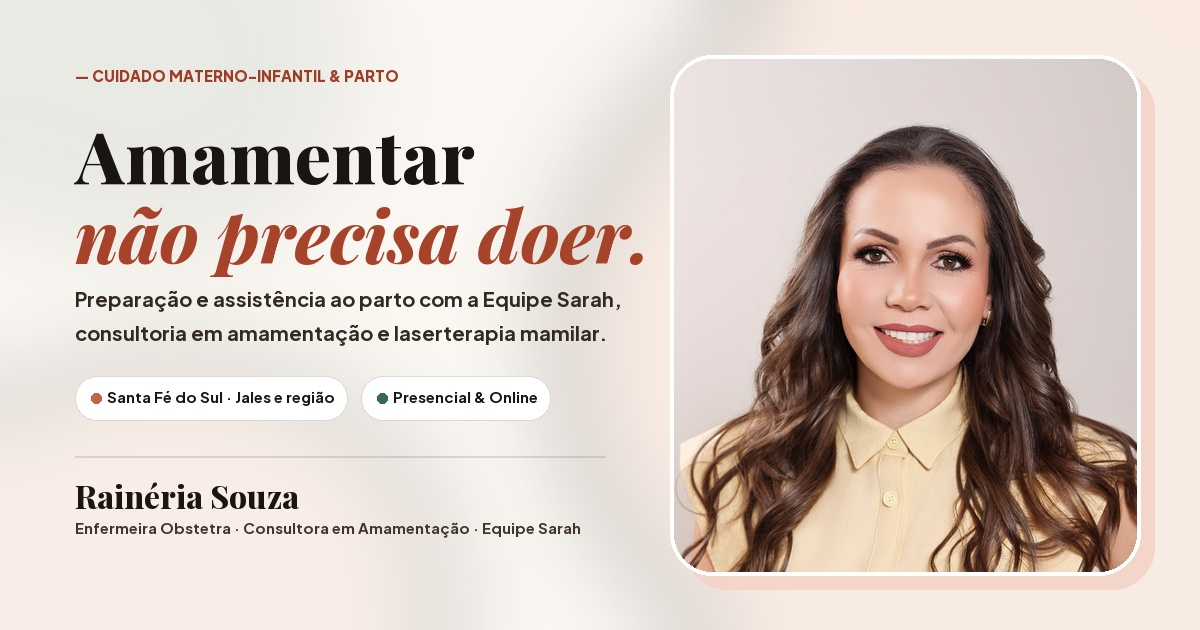
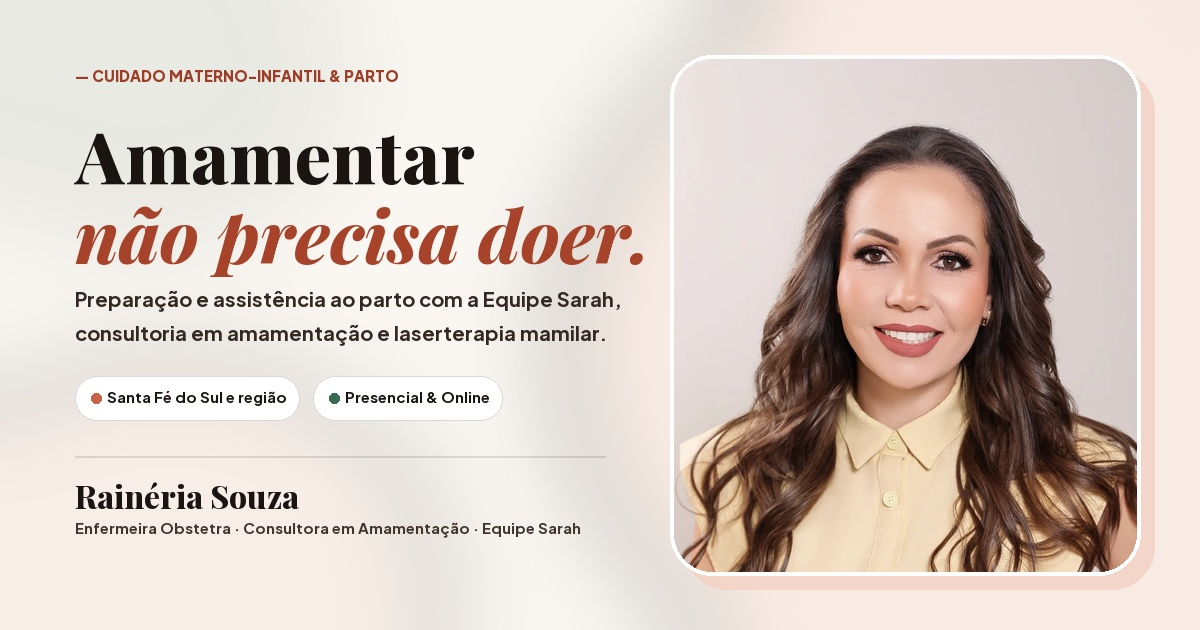
fix(seo): atualizar og-image e metadados para Santa Fé do Sul e região

Changed region(s): [[0.185, 0.573, 0.4625, 0.6937]]

diff --git a/index.html b/index.html
@@ -11,7 +11,7 @@
     />
     <meta
       name="keywords"
-      content="consultora em amamentação em Santa Fé do Sul, consultora em amamentação em Jales, enfermeira obstetra, laserterapia mamilar, avaliação da pega e sucção, teste da linguinha, consultoria pré-natal"
+      content="consultora em amamentação em Santa Fé do Sul, consultora em amamentação na região, enfermeira obstetra, laserterapia mamilar, avaliação da pega e sucção, teste da linguinha, consultoria pré-natal"
     />
     <meta name="author" content="Rainéria Souza" />
     <link rel="canonical" href="https://proposta-raineria.wesbats.dev/" />
@@ -29,7 +29,7 @@
     <meta property="og:title" content="Rainéria Souza | Amamentar não precisa doer" />
     <meta
       property="og:description"
-      content="Consultoria em amamentação, laserterapia mamilar e assistência obstétrica ao parto com a Equipe Sarah em Santa Fé do Sul, Jales e região."
+      content="Consultoria em amamentação, laserterapia mamilar e assistência obstétrica ao parto com a Equipe Sarah em Santa Fé do Sul e região."
     />
     <meta property="og:url" content="https://proposta-raineria.wesbats.dev/" />
     <meta property="og:image" content="https://proposta-raineria.wesbats.dev/og-image.jpg" />
@@ -47,7 +47,7 @@
     <meta name="twitter:title" content="Rainéria Souza | Amamentar não precisa doer" />
     <meta
       name="twitter:description"
-      content="Consultoria em amamentação, laserterapia mamilar e assistência obstétrica ao parto com a Equipe Sarah em Santa Fé do Sul, Jales e região."
+      content="Consultoria em amamentação, laserterapia mamilar e assistência obstétrica ao parto com a Equipe Sarah em Santa Fé do Sul e região."
     />
     <meta name="twitter:image" content="https://proposta-raineria.wesbats.dev/og-image.jpg" />
 
@@ -85,8 +85,7 @@
           "url": "https://projetosarah.com.br/"
         },
         "areaServed": [
-          { "@type": "City", "name": "Santa Fé do Sul", "containedInPlace": { "@type": "State", "name": "São Paulo" } },
-          { "@type": "City", "name": "Jales", "containedInPlace": { "@type": "State", "name": "São Paulo" } }
+          { "@type": "City", "name": "Santa Fé do Sul", "containedInPlace": { "@type": "State", "name": "São Paulo" } }
         ],
         "medicalSpecialty": ["Obstetrics", "LactationConsultant"],
         "knowsAbout": [
